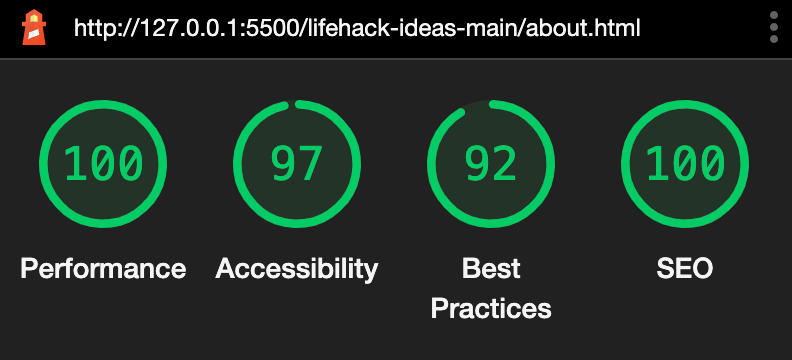
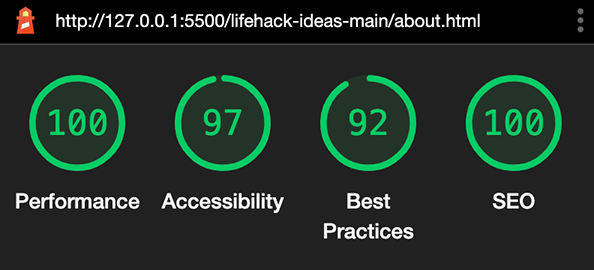
change size of images of the lighthouse tests

diff --git a/README.md b/README.md
@@ -248,71 +248,71 @@ I used Lighthouse within the Chrome Developer Tools to test the performance, acc
 
 Lighthouse testing:
 
-[Lighthouse Testing for Desktop Index Page](docs/testing/lighthouse/index_desk.png) ~
-[Lighthouse Testing for Mobile Index Page](docs/testing/lighthouse/index_mob.png)
+![Lighthouse Testing for Desktop Index Page](docs/testing/lighthouse/index_desk.png) ~
+![Lighthouse Testing for Mobile Index Page](docs/testing/lighthouse/index_mob.png)
 
 #### All Page
 
 Lighthouse testing:
 
-[Lighthouse Testing for Desktop Index Page](docs/testing/lighthouse/all_desk.png) ~
-[Lighthouse Testing for Mobile Index Page](docs/testing/lighthouse/all_mob.png)
+![Lighthouse Testing for Desktop Index Page](docs/testing/lighthouse/all_desk.png) ~
+![Lighthouse Testing for Mobile Index Page](docs/testing/lighthouse/all_mob.png)
 
 #### Car & Garage Page
 
 Lighthouse testing:
 
-[Lighthouse Testing for Desktop Index Page](docs/testing/lighthouse/car&garage_desk.png) ~
-[Lighthouse Testing for Mobile Index Page](docs/testing/lighthouse/car&garage_mob.png)
+![Lighthouse Testing for Desktop Index Page](docs/testing/lighthouse/car&garage_desk.png) ~
+![Lighthouse Testing for Mobile Index Page](docs/testing/lighthouse/car&garage_mob.png)
 
 #### Clothing Page
 
 Lighthouse testing:
 
-[Lighthouse Testing for Desktop Index Page](docs/testing/lighthouse/clothing_desk.png) ~
-[Lighthouse Testing for Mobile Index Page](docs/testing/lighthouse/clothing_mob.png)
+![Lighthouse Testing for Desktop Index Page](docs/testing/lighthouse/clothing_desk.png) ~
+![Lighthouse Testing for Mobile Index Page](docs/testing/lighthouse/clothing_mob.png)
 
 #### Cooking Page
 
 Lighthouse testing:
 
-[Lighthouse Testing for Desktop Index Page](docs/testing/lighthouse/cooking_desk.png) ~
-[Lighthouse Testing for Mobile Index Page](docs/testing/lighthouse/cooking_mob.png)
+![Lighthouse Testing for Desktop Index Page](docs/testing/lighthouse/cooking_desk.png) ~
+![Lighthouse Testing for Mobile Index Page](docs/testing/lighthouse/cooking_mob.png)
 
 #### Math Page
 
 Lighthouse testing:
 
-[Lighthouse Testing for Desktop Index Page](docs/testing/lighthouse/math_desk.png) ~
-[Lighthouse Testing for Mobile Index Page](docs/testing/lighthouse/math_mob.png)
+![Lighthouse Testing for Desktop Index Page](docs/testing/lighthouse/math_desk.png) ~
+![Lighthouse Testing for Mobile Index Page](docs/testing/lighthouse/math_mob.png)
 
 #### Travel Page
 
 Lighthouse testing:
 
-[Lighthouse Testing for Desktop Index Page](docs/testing/lighthouse/travel_desk.png) ~
-[Lighthouse Testing for Mobile Index Page](docs/testing/lighthouse/travel_mob.png)
+![Lighthouse Testing for Desktop Index Page](docs/testing/lighthouse/travel_desk.png) ~
+![Lighthouse Testing for Mobile Index Page](docs/testing/lighthouse/travel_mob.png)
 
 #### Other Page
 
 Lighthouse testing:
 
-[Lighthouse Testing for Desktop Index Page](docs/testing/lighthouse/other_desk.png) ~
-[Lighthouse Testing for Mobile Index Page](docs/testing/lighthouse/other_mob.png)
+![Lighthouse Testing for Desktop Index Page](docs/testing/lighthouse/other_desk.png) ~
+![Lighthouse Testing for Mobile Index Page](docs/testing/lighthouse/other_mob.png)
 
 #### About Page
 
 Lighthouse testing:
 
-[Lighthouse Testing for Desktop Index Page](docs/testing/lighthouse/about_desk.png) ~
-[Lighthouse Testing for Mobile Index Page](docs/testing/lighthouse/about_mob.png)
+![Lighthouse Testing for Desktop Index Page](docs/testing/lighthouse/about_desk.png) ~
+![Lighthouse Testing for Mobile Index Page](docs/testing/lighthouse/about_mob.png)
 
 #### Contact Page
 
 Lighthouse testing:
 
-[Lighthouse Testing for Desktop Index Page](docs/testing/lighthouse/contact_desk.png) ~
-[Lighthouse Testing for Mobile Index Page](docs/testing/lighthouse/contact_mob.png)
+![Lighthouse Testing for Desktop Index Page](docs/testing/lighthouse/contact_desk.png) ~
+![Lighthouse Testing for Mobile Index Page](docs/testing/lighthouse/contact_mob.png)
 
 ### Full Testing
 
